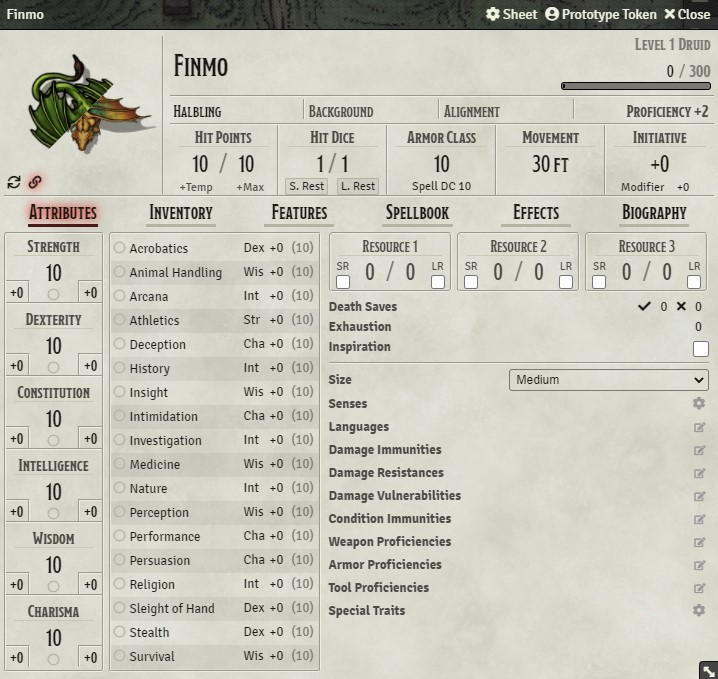
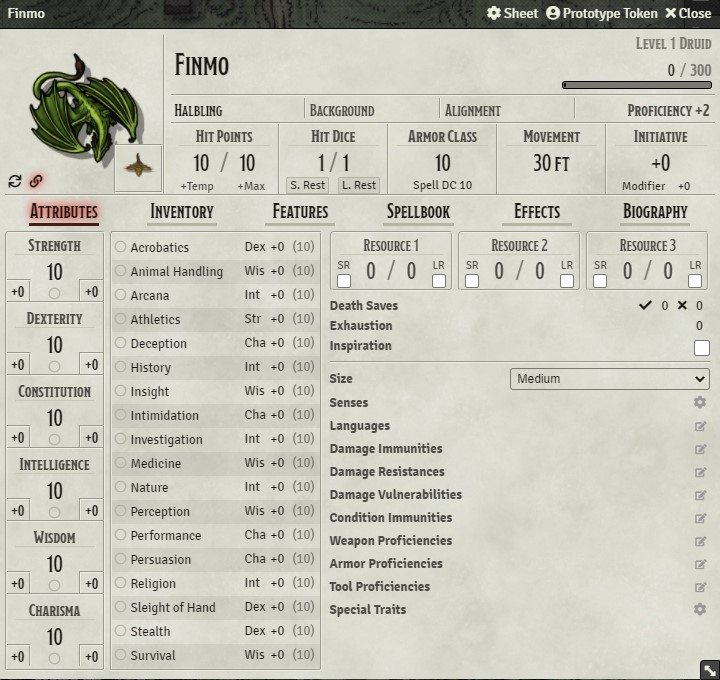
Changed UI from side-by-side to picture-in-picture

diff --git a/src/actor-token-sync.css b/src/actor-token-sync.css
@@ -1,30 +1,53 @@
-.actor-token-sync__token-image {
+.actor-token-sync__token-image-container {
     position: absolute;
-    clip-path: polygon(100% 0, 100% 0, 100% 100%, 0 100%);
     left: 0;
     top: 50%;
-    transform: translate(0, -50%);
-    z-index: 1;
+    transform: translateY(-50%);
+    z-index: 2;
+    width: 158px;
+    height: 158px;
+    display: flex;
+    flex-direction: row-reverse;
+    align-items: flex-end;
+    pointer-events: none;
 }
 
-.actor-token-sync--split-actor-image {
-    clip-path: polygon(0 0, 100% 0, 0 100%, 0 100%);
-    position: relative;
-    z-index: 1;
+.actor-token-sync__token-image {
+    border: 2px groove #eeede0;
+    backface-visibility: hidden;
+    pointer-events: all;
+}
+
+.sheet header.sheet-header .actor-token-sync__token-image img {
+    object-fit: contain;
+    border: none;
+    width: 38px;
+    height: 38px;
+    flex-basis: 38px;
+    margin-right: 0;
+    backface-visibility: hidden;
+    transition: all 0.3s;
 }
 
 .actor-token-sync__image {
-    transition: clip-path 0.3s;
+    transition: transform 0.3s;
     cursor: pointer;
 }
 
-.actor-token-sync__image:hover {
-    z-index: 2;
+.actor-token-sync__actor-image {
+    cursor: pointer;
 }
 
-.actor-token-sync--split-actor-image:hover,
-.actor-token-sync__token-image:hover {
-    clip-path: polygon(0 0, 100% 0, 100% 100%, 0 100%);
+.sheet header.sheet-header .actor-token-sync__actor-image:hover ~ .actor-token-sync__token-image-container .actor-token-sync__token-image img {
+    width: 16px;
+    height: 16px;
+    flex-basis: 16px;
+}
+
+.sheet header.sheet-header .actor-token-sync__token-image:hover img {
+    width: 144px;
+    height: 144px;
+    flex-basis: 144px;
 }
 
 .dnd5e.sheet.actor .sheet-header {
@@ -35,7 +58,7 @@
     position: absolute;
     bottom: 4px;
     left: 4px;
-    z-index: 3;
+    z-index: 4;
     display: flex;
     flex-direction: row;
     gap: 8px;

diff --git a/src/actor-token-sync.js b/src/actor-token-sync.js
@@ -41,12 +41,18 @@ function addImageHtml(sheetHtml, actorSheet) {
   const toolbar = $(`<div class="actor-token-sync__toolbar"></div>`)
 
   if (actorImage !== tokenImage && !actor.data?.token?.randomImg) {
-    const tokenImageElement = $(`<img alt="Token" src="${tokenImage}" class="actor-token-sync__image actor-token-sync__token-image profile" title="Token image" />`)
+    const tokenImageElement = $(`
+        <div class="actor-token-sync__token-image-container">
+          <div class="window-content actor-token-sync__image actor-token-sync__token-image">
+            <img alt="Token" src="${tokenImage}" title="Token image" />
+          </div>
+        </div>
+    `)
     tokenImageElement.on('click', event => {
       actorSheet._onConfigureToken(event)
     })
 
-    actorImageElement.addClass('actor-token-sync__image actor-token-sync--split-actor-image')
+    actorImageElement.addClass('actor-token-sync__image actor-token-sync__actor-image')
     actorImageElement.after(tokenImageElement)
 
     const syncButton = $(`<a class="actor-token-sync__tiny-btn" title="Sync Images"><i class="fas fa-sync"></i></a>`)

diff --git a/README.md b/README.md
@@ -22,6 +22,7 @@ Foundry VTT module that synchronizes Actors and their (Prototype) Tokens. Makes 
     
 ## Changelog
 
+- **1.1.0:** Fixed UI breaking when wildcard tokens are used. Changed split view to a more conventional PiP-View
 - **1.0.0:** Initial release with prototype token name sync and manual image sync for DnD5e
 
 ## About
